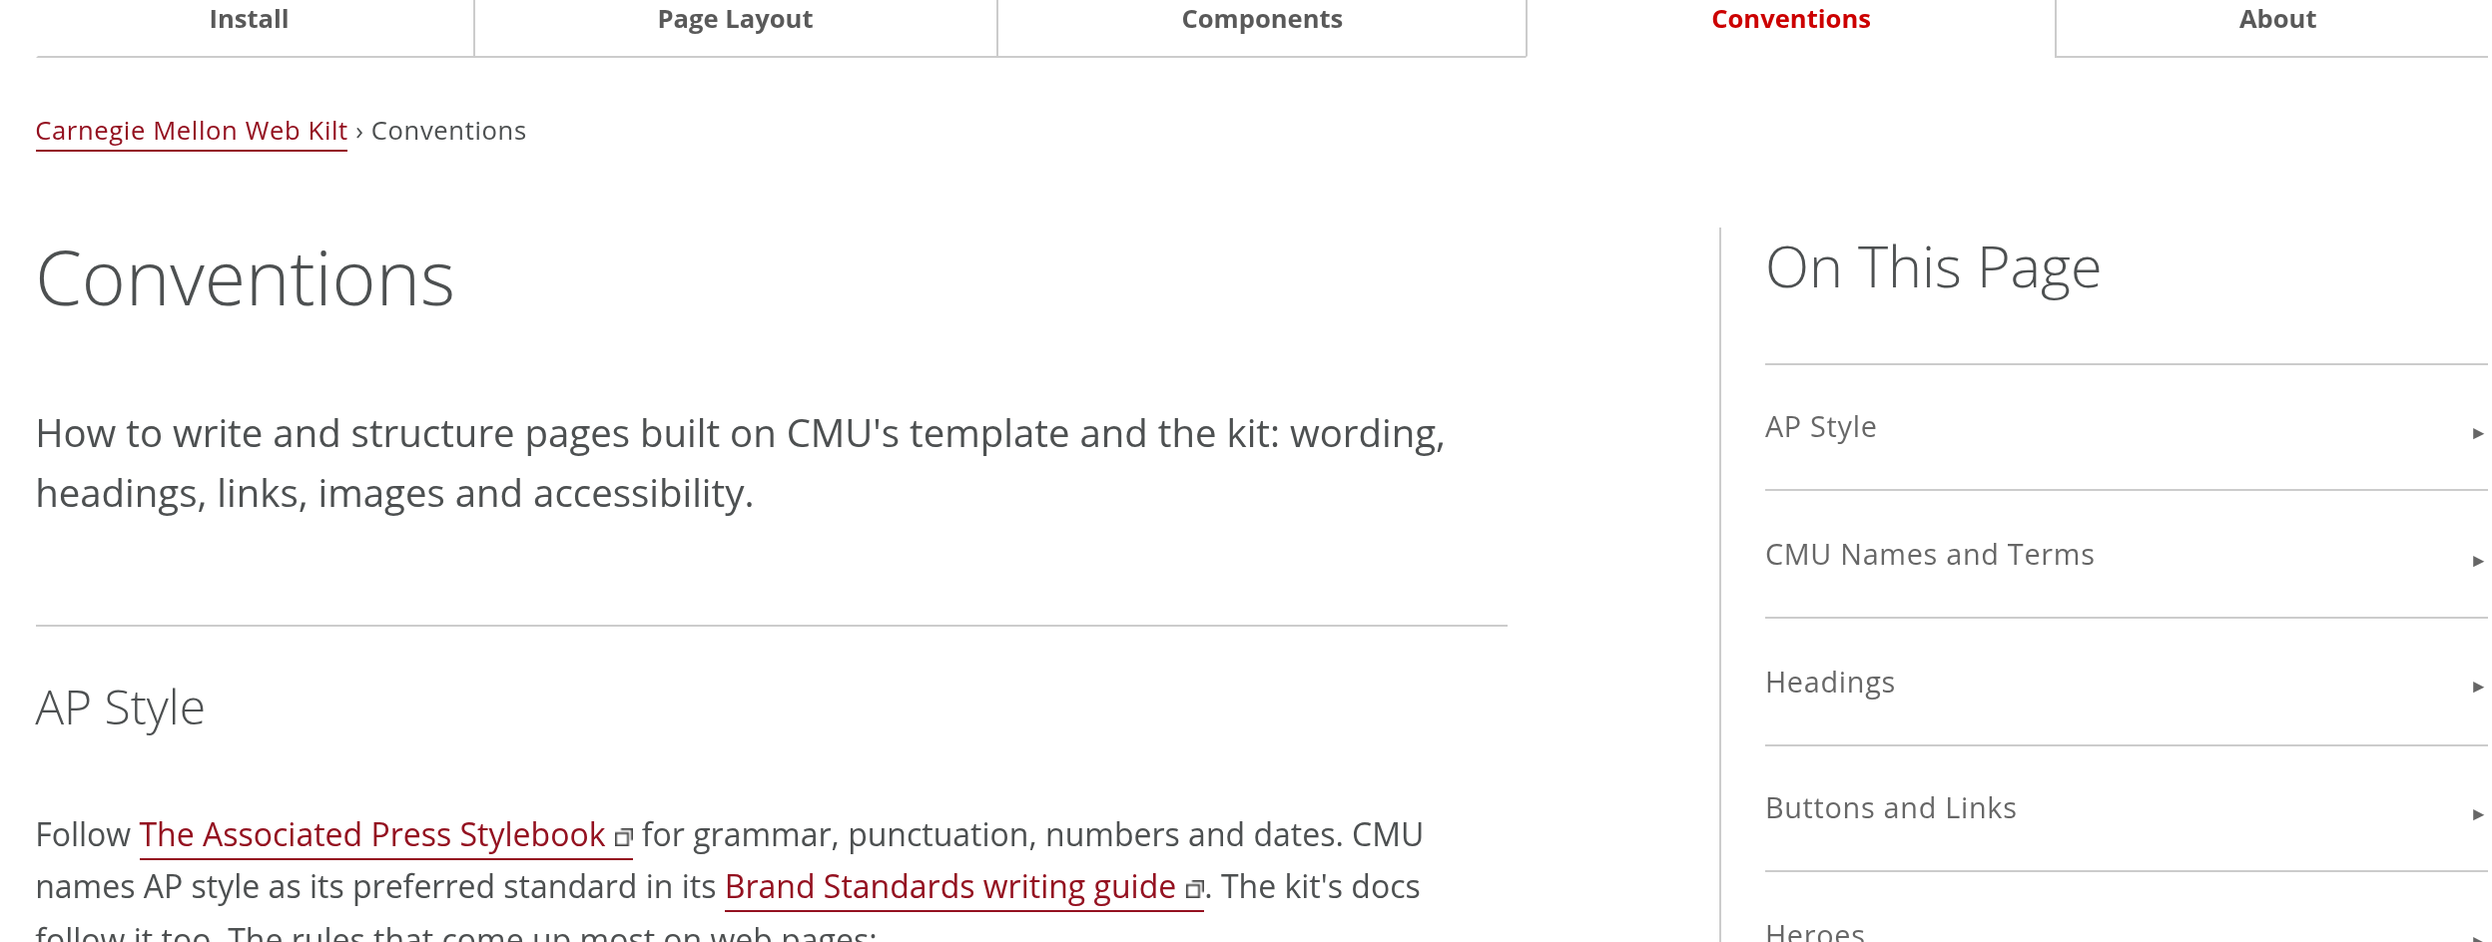
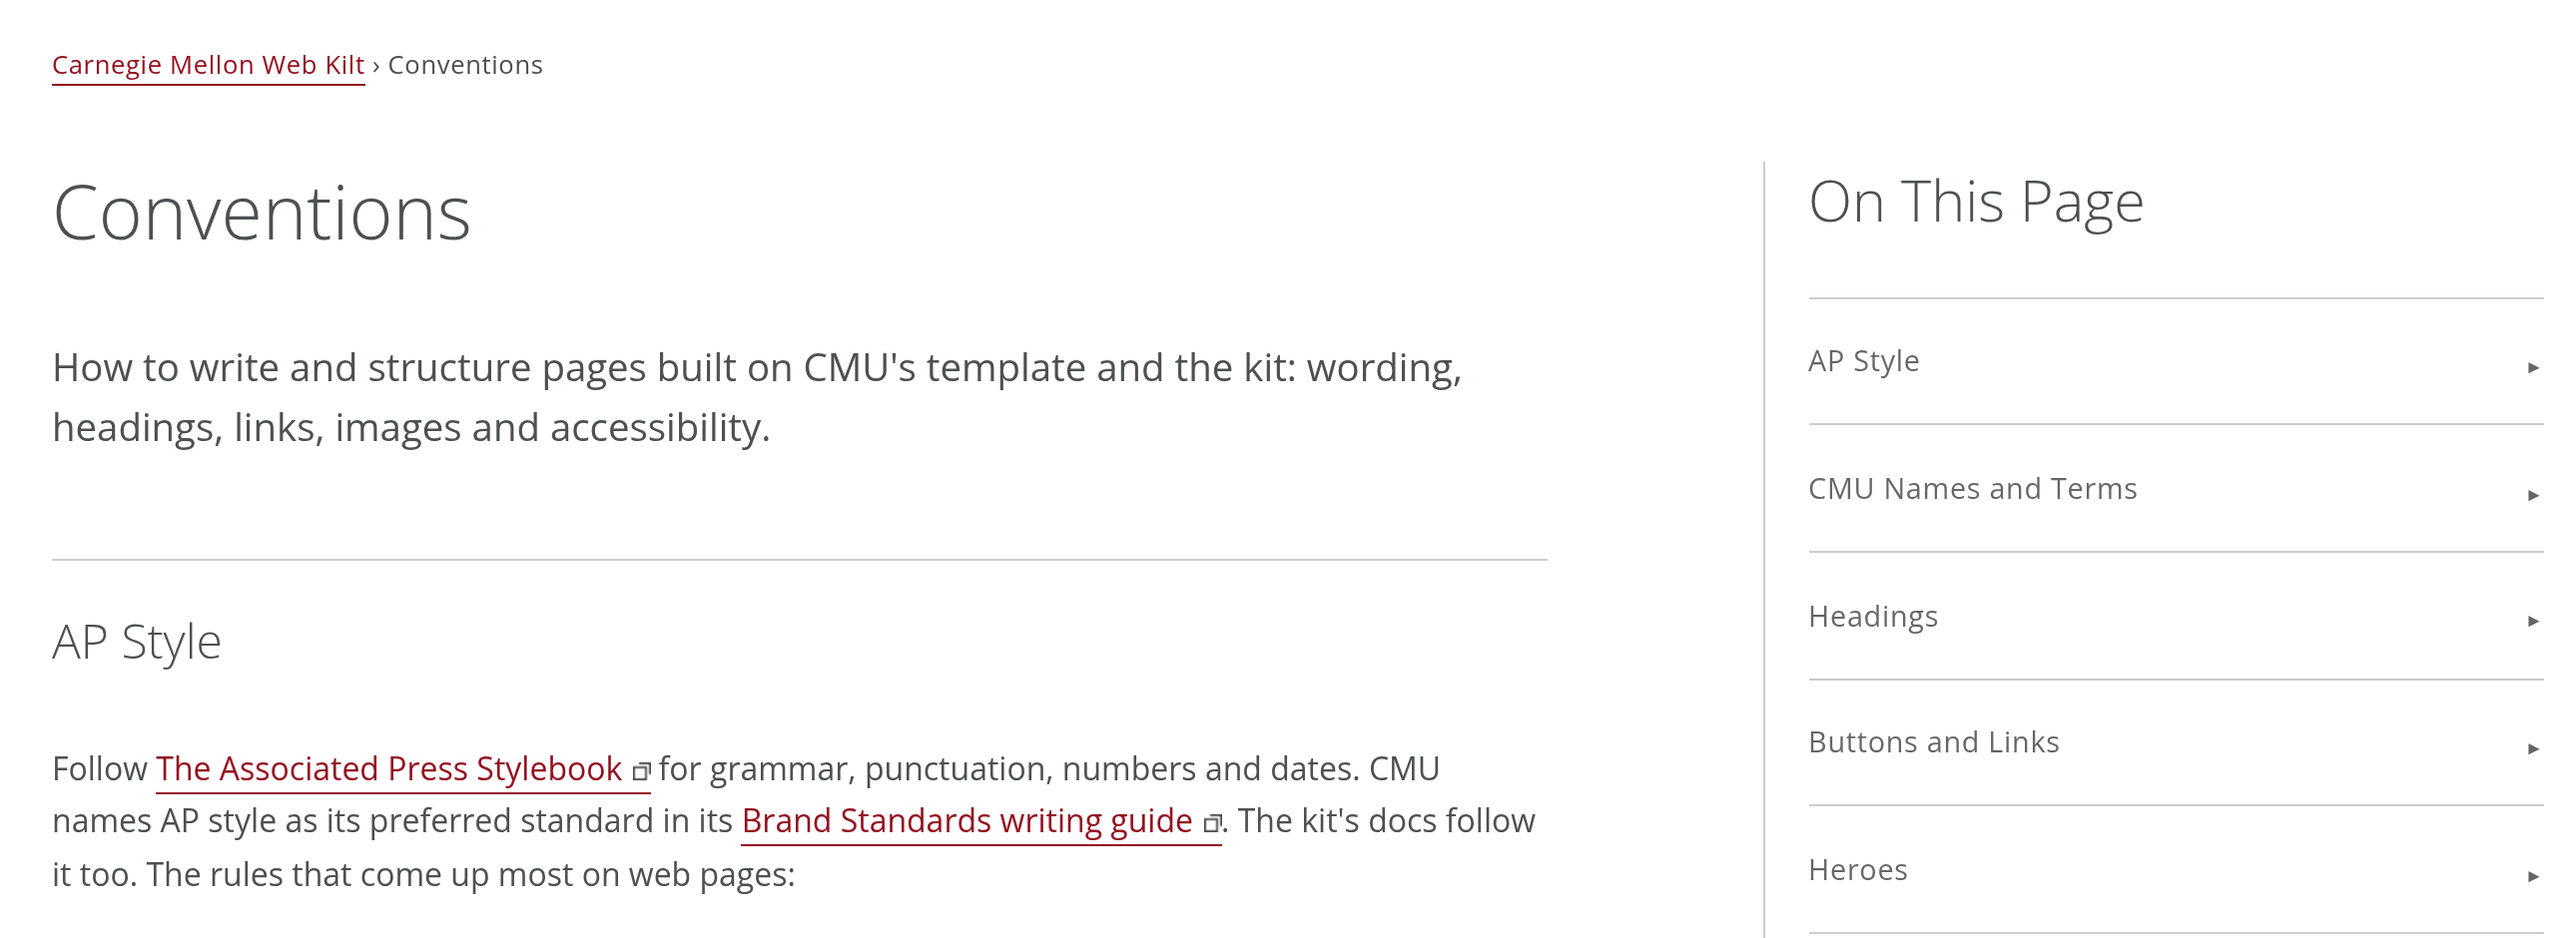
fix: room around rule-top lines in the kit, not just the docs
* A section's first ruled heading keeps its padding under the line
* Mid-section, a ruled heading gets room above its line
* An eyebrow with the line gets room under it
* Docs: the On This Page screenshot framed from the breadcrumbs

diff --git a/docs/sections.html b/docs/sections.html
@@ -130,10 +130,12 @@
             <p>
               An optional thin line over a section's heading, to mark where one topic ends and the
               next begins on a long page. Add the template's <code>rule-top</code> to the heading.
-              The line sits right on top of the heading; the section's own padding gives the space
-              above it. On a color band (<code>invert</code>) the line turns white. Its partner,
-              <code>rule-bottom</code>, puts the line under a heading instead, as in the
-              <a href="sidebars.html#quick-links">sidebar</a>.
+              The line sits just above the heading, with room between them. At the top of a section,
+              the section's own padding gives the space above the line; further down, the kit adds
+              it, so the line doesn't crowd a table or callout before it. An eyebrow can take the
+              line instead of its heading. On a color band (<code>invert</code>) the line turns
+              white. Its partner, <code>rule-bottom</code>, puts the line under a heading instead,
+              as in the <a href="sidebars.html#quick-links">sidebar</a>.
             </p>
             <p class="kit-classes"><code>rule-top</code>, <code>rule-bottom</code></p>
             <!-- prettier-ignore -->

diff --git a/docs/css/docs.css b/docs/css/docs.css
@@ -12,11 +12,6 @@
 #content > .content > div > h2.rule-top {
   margin-top: 2rem;
 }
-/* The template zeroes the top padding of a section's first heading; one
-   with a line above it keeps the room between the line and the words */
-#content > .content > div > h2.rule-top:first-child {
-  padding-top: 1em;
-}
 /* The template zeroes padding on a section's first and last element; code
    samples keep theirs */
 #content .kit-code {
@@ -128,11 +123,10 @@
 .kit-swatches--tall > div {
   min-height: 9rem;
 }
-/* Try the Header's "Try It" eyebrow takes the section's rule, with room
-   between them, since its small text has none of a heading's line height */
+/* Try the Header's "Try It" eyebrow takes the section's rule (the kit gives
+   it room under the line); room above it, as for a heading */
 #content .cmu-eyebrow.rule-top {
   margin-top: 2rem;
-  padding-top: 0.9rem;
 }
 /* Try the Header: a form of radio buttons and checkboxes in three groups
    side by side, at full size like any form */

diff --git a/css/cmu-cms.css b/css/cmu-cms.css
@@ -37,6 +37,23 @@
   accent-color: var(--cmu-red);
 }
 
+/* A section heading with the template's line over it (rule-top): the
+   template zeroes the top padding of a section's first heading, which puts
+   the words right against the line; keep the room between them */
+:is(h1, h2, h3, h4).rule-top:first-child {
+  padding-top: 1em;
+}
+/* Mid-section, room above the line, so it doesn't crowd a table, code block
+   or callout just before it */
+:is(h1, h2, h3, h4).rule-top:not(:first-child) {
+  margin-top: 2rem;
+}
+/* An eyebrow can take the line instead of its heading; its small text has
+   no line height to spare, so give it room under the line */
+.cmu-eyebrow.rule-top {
+  padding-top: 0.9rem;
+}
+
 /* Small capitals: eyebrow (red, above a heading), label (gray) */
 .cmu-eyebrow {
   margin: 0 0 0.5rem;

diff --git a/docs/layout.html b/docs/layout.html
@@ -514,8 +514,8 @@
               <img
                 src="images/layout-tabs-sidebar.png"
                 alt="The top of these docs' Conventions page: the content on the left, and on the right an On This Page box listing its sections, starting with AP Style, CMU Names and Terms and Headings."
-                width="1248"
-                height="472"
+                width="1290"
+                height="470"
               />
             </figure>
             <p>
